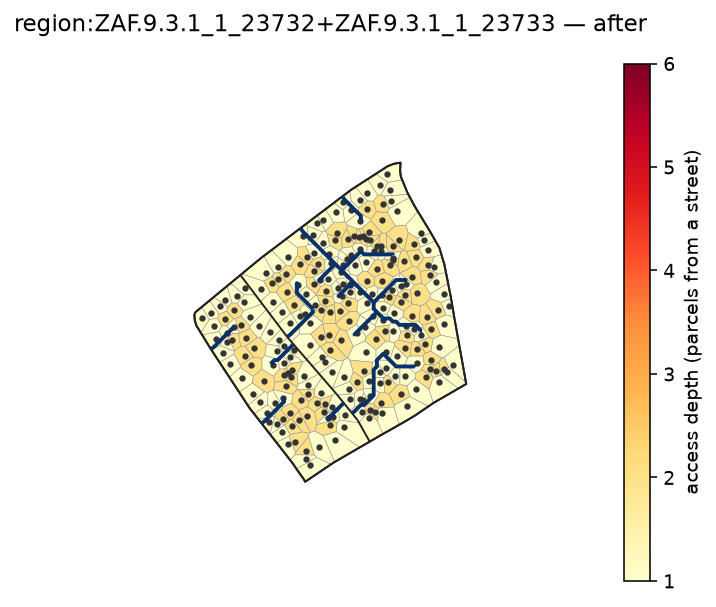
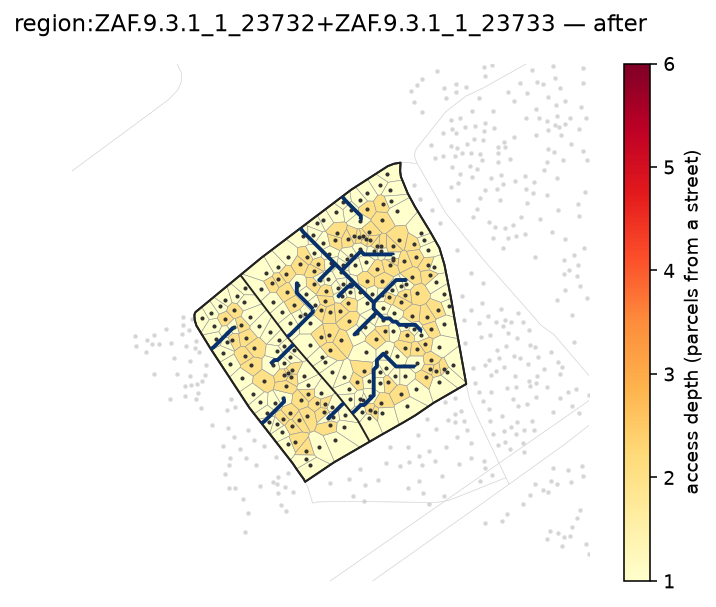
docs: clearance gallery renders — full-raw context blocks + half-radius points
- generate.py now windows the FULL raw block set (source.block_geometries(frame),
  not the screened selection) minus the region's members as dimmed context, mirroring
  reblock.run's render path (emit.py) -- so the informal fabric shows against the
  surrounding formal grid.
- render.py: own parcel points at markersize 1.25 (half radius) to declutter dense regions.

Claude-Session: https://claude.ai/code/session_0125mCca6BQaTXiLZPMyFa8x

diff --git a/examples/clearance-repulsion/generate.py b/examples/clearance-repulsion/generate.py
@@ -47,8 +47,22 @@ def main() -> None:
     vmax = int(before.max())
     frame = frame_bbox(region.parcels)
     own_pts = region.building_points
-    save_render(render_before(region, before, vmax=vmax, own_points=own_pts, frame=frame),
-                OUT / "before.png")
+
+    # Dimmed context = the FULL RAW block set in the render frame (NOT the screened selection),
+    # minus the region's own members -- the surrounding formal grid the informal fabric sits in.
+    # Mirrors reblock.run's render path (emit.py): block_geometries()/building_points() are the
+    # raw source, windowed to `frame`; the screen never enters here.
+    outlines = source.block_geometries(frame)
+    is_member = outlines["block_id"].astype(str).isin(members)
+    context_outlines = outlines[~is_member]
+    member_union = outlines[is_member].geometry.union_all()
+    ctx_pts = source.building_points(frame)
+    context_points = ctx_pts[~ctx_pts.geometry.within(member_union)]
+
+    save_render(
+        render_before(region, before, vmax=vmax, own_points=own_pts, frame=frame,
+                      context_outlines=context_outlines, context_points=context_points),
+        OUT / "before.png")
 
     print(f"\n{'repulsion':>9} {'roads':>5} {'length_m':>9} {'displaced':>9} {'max_depth':>9}")
     for s in REPULSIONS:
@@ -57,7 +71,8 @@ def main() -> None:
         after = parcel_access_layers(region, roads)
         length = float(sum(g.length for g in roads.geometry)) if len(roads) else 0.0
         displaced = displacement_count(region.building_points, roads, 3.0)
-        fig = render_after(region, proposal, after, vmax=vmax, own_points=own_pts, frame=frame)
+        fig = render_after(region, proposal, after, vmax=vmax, own_points=own_pts, frame=frame,
+                           context_outlines=context_outlines, context_points=context_points)
         tag = f"{s:+.0f}".replace("+0", "0")
         save_render(fig, OUT / f"after_s{tag}.png")
         print(f"{s:>9.0f} {len(roads):>5d} {length:>9.0f} {displaced:>9d} {int(after.max()):>9d}")

diff --git a/src/reblock/render.py b/src/reblock/render.py
@@ -91,7 +91,7 @@ def _draw_heatmap(
         block.streets.plot(ax=ax, color=_BOUNDARY_COLOR, linewidth=1.0)
 
     if own_points is not None and not own_points.empty:
-        own_points.plot(ax=ax, color=_OWN_PT, markersize=5)
+        own_points.plot(ax=ax, color=_OWN_PT, markersize=1.25)  # half-radius (markersize is area)
     # Displaced sites (own_points that fall inside a committed road's corridor): a hollow ring
     # drawn on top of own_points -- the cost of the straight road made visible next to it.
     if displaced_points is not None and not displaced_points.empty:
